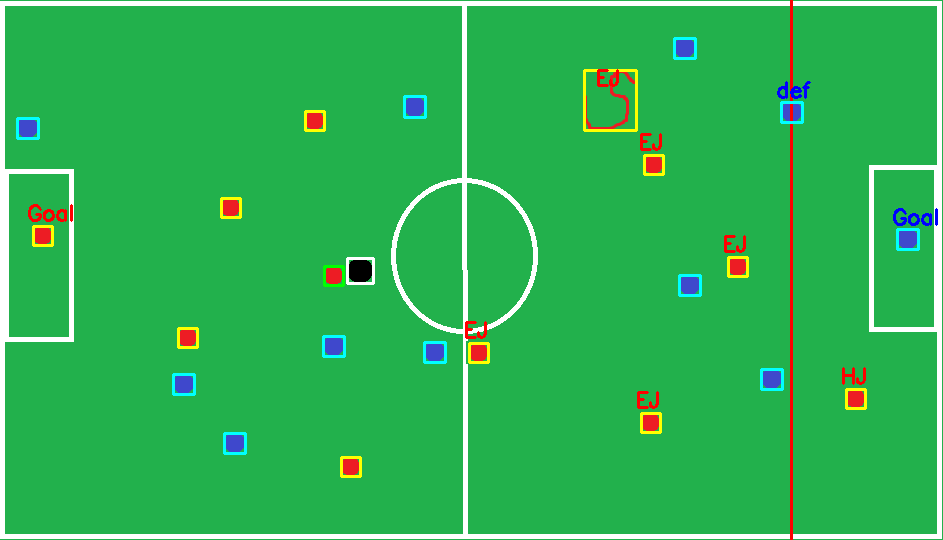
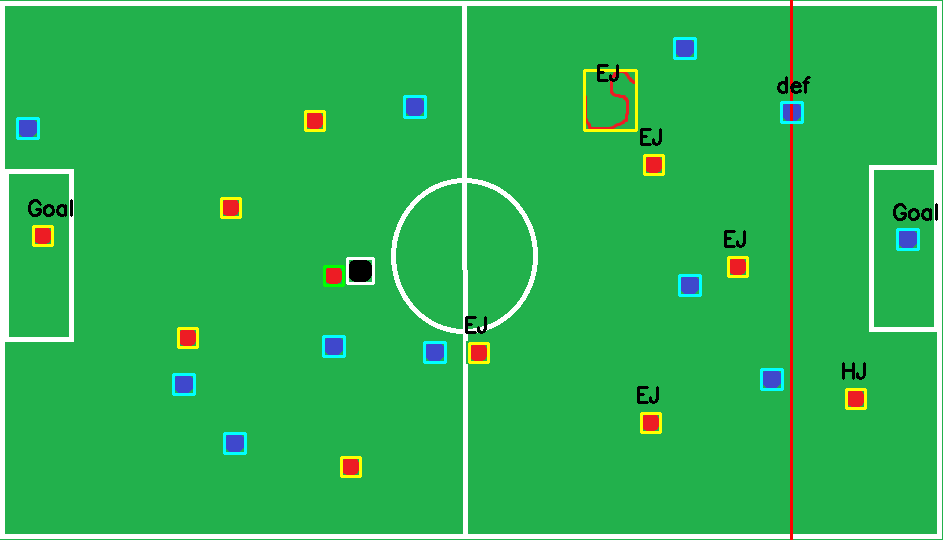
ok

diff --git a/src/fonction/DessinerImage.java b/src/fonction/DessinerImage.java
@@ -12,7 +12,7 @@ import java.util.List;
 public class DessinerImage {
 
     public static void dessinerSurImage(Mat image, List<Joueur> joueurs,List<Joueur> joueursOposant,double tailleTerrain, Point positionBallon, String couleur, Joueur joueurProcheBallon) {
-        Scalar couleurTexte = couleur.equals(JoueurCouleur.ROUGE) ? new Scalar(0, 0, 255) : new Scalar(255, 0, 0);
+        // Scalar couleurTexte = couleur.equals(JoueurCouleur.ROUGE) ? new Scalar(0, 0, 255) : new Scalar(255, 0, 0);
         Scalar couleurRect = couleur.equals(JoueurCouleur.ROUGE) ? new Scalar(0, 255, 255) : new Scalar(255, 255, 0);
 
          List<Joueur> joueursAll=new ArrayList<>();
@@ -28,8 +28,8 @@ public class DessinerImage {
 
             Imgproc.rectangle(image, joueur.getDimension().tl(), joueur.getDimension().br(), couleurRect, 2);
 
-            Imgproc.putText(image, statut, new Point(position.x - 15, position.y - 15),
-                    Imgproc.FONT_HERSHEY_SIMPLEX, 0.7, couleurTexte, 2);
+            Imgproc.putText(image, statut, new Point(position.x - 15, position.y - 20),
+                    Imgproc.FONT_HERSHEY_SIMPLEX, 0.7, new Scalar(0, 0, 0), 2);
 
             if (joueur.equals(joueurProcheBallon)) {
                         Imgproc.rectangle(image, joueur.getDimension().tl(), joueur.getDimension().br(),  new Scalar(0, 255, 0), 2);
